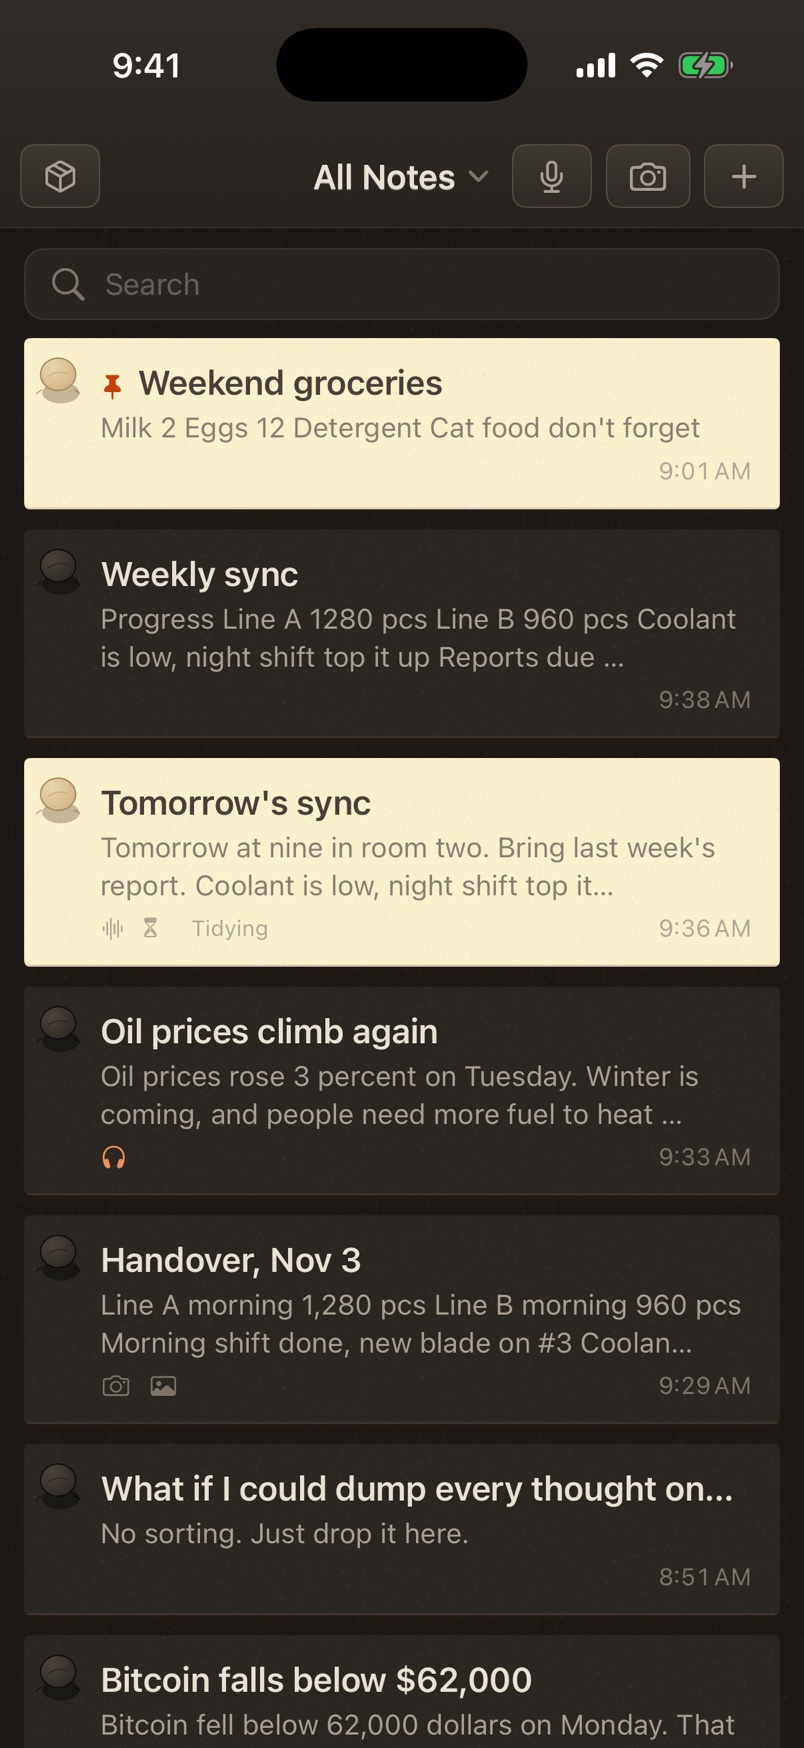
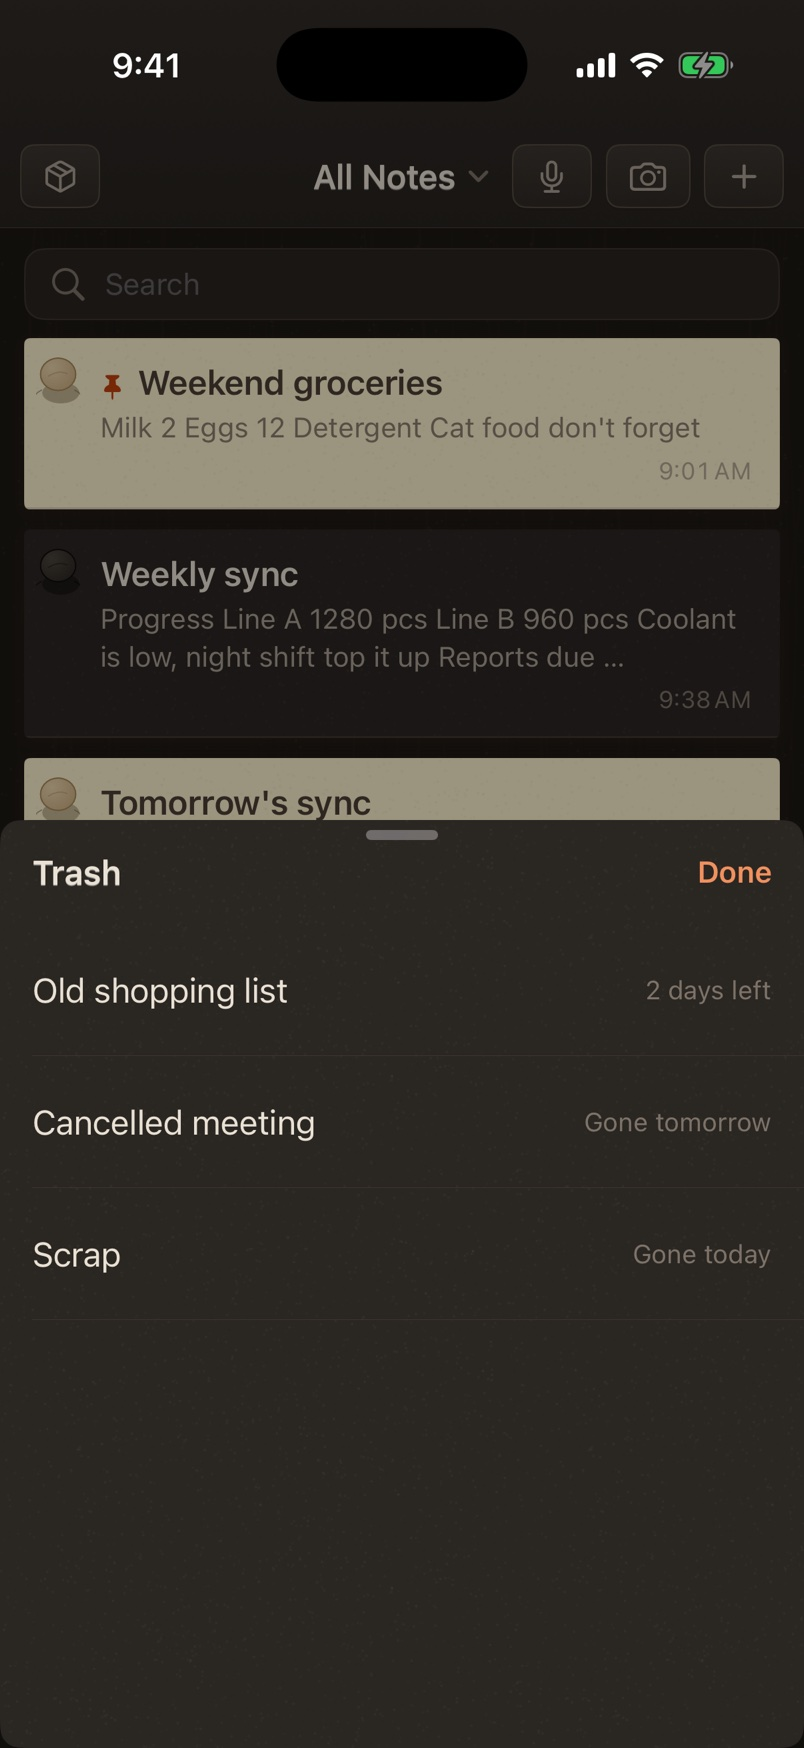
iOS 截图：6306d02 [skip ci]

diff --git a/ios/shots/index.html b/ios/shots/index.html
@@ -26,18 +26,18 @@ figcaption { text-align:center; color:var(--ink2); font-size:14px; margin-top:6p
 <body>
 <header>
 <h1>一叶笺 iPhone · 最新样子</h1>
-<p class="meta">0.7.8 · 提交 d245051 · 11-24 15:54（新加坡时间）</p>
-<p class="changed">这次改了：截图：b8b701e [skip ci]</p>
-<p class="meta">拍照认字认对：印刷 99%，手写 89% · 60 张截图，CI 每次自动换</p>
+<p class="meta">0.7.8 · 提交 6306d02 · 11-24 16:44（新加坡时间）</p>
+<p class="changed">这次改了：111 截图：文件夹面板拉高看废纸篓那行、废纸篓叠在上面</p>
+<p class="meta">拍照认字认对：印刷 99%，手写 89% · 64 张截图，CI 每次自动换</p>
 </header>
 <nav>
 <button data-lang="zh" aria-pressed="true">中文</button><button data-lang="en" aria-pressed="false">English</button>
 <button data-look="light" aria-pressed="true">浅色</button><button data-look="dark" aria-pressed="false">深色</button>
 </nav>
-<section class="set" data-set="zh-light"><figure><img src="zh-light/01-list.jpg?v=d245051" alt="列表" loading="lazy" width="402" height="874"><figcaption>列表</figcaption></figure><figure><img src="zh-light/02-editor.jpg?v=d245051" alt="写字页" loading="lazy" width="402" height="874"><figcaption>写字页</figcaption></figure><figure><img src="zh-light/03-markdown.jpg?v=d245051" alt="Markdown 五招" loading="lazy" width="402" height="874"><figcaption>Markdown 五招</figcaption></figure><figure><img src="zh-light/04-ocr.jpg?v=d245051" alt="拍照认字" loading="lazy" width="402" height="874"><figcaption>拍照认字</figcaption></figure><figure><img src="zh-light/05-share-note.jpg?v=d245051" alt="分享成图 · 便签" loading="lazy" width="402" height="874"><figcaption>分享成图 · 便签</figcaption></figure><figure><img src="zh-light/06-share-white.jpg?v=d245051" alt="分享成图 · 白纸" loading="lazy" width="402" height="874"><figcaption>分享成图 · 白纸</figcaption></figure><figure><img src="zh-light/07-settings.jpg?v=d245051" alt="设置" loading="lazy" width="402" height="874"><figcaption>设置</figcaption></figure><figure><img src="zh-light/08-butler.jpg?v=d245051" alt="大管家" loading="lazy" width="402" height="874"><figcaption>大管家</figcaption></figure><figure><img src="zh-light/09-voice.jpg?v=d245051" alt="录一段" loading="lazy" width="402" height="874"><figcaption>录一段</figcaption></figure><figure><img src="zh-light/10-voice-note.jpg?v=d245051" alt="录音笔记" loading="lazy" width="402" height="874"><figcaption>录音笔记</figcaption></figure><figure><img src="zh-light/11-listen.jpg?v=d245051" alt="听力列表" loading="lazy" width="402" height="874"><figcaption>听力列表</figcaption></figure><figure><img src="zh-light/12-listen-text.jpg?v=d245051" alt="听力 · 原文" loading="lazy" width="402" height="874"><figcaption>听力 · 原文</figcaption></figure><figure><img src="zh-light/13-toolbox.jpg?v=d245051" alt="工具箱（点开）" loading="lazy" width="402" height="874"><figcaption>工具箱（点开）</figcaption></figure><figure><img src="zh-light/14-batch.jpg?v=d245051" alt="batch" loading="lazy" width="402" height="874"><figcaption>batch</figcaption></figure><figure><img src="zh-light/15-trash.jpg?v=d245051" alt="trash" loading="lazy" width="402" height="874"><figcaption>trash</figcaption></figure></section>
-<section class="set" data-set="zh-dark" hidden><figure><img src="zh-dark/01-list.jpg?v=d245051" alt="列表" loading="lazy" width="402" height="874"><figcaption>列表</figcaption></figure><figure><img src="zh-dark/02-editor.jpg?v=d245051" alt="写字页" loading="lazy" width="402" height="874"><figcaption>写字页</figcaption></figure><figure><img src="zh-dark/03-markdown.jpg?v=d245051" alt="Markdown 五招" loading="lazy" width="402" height="874"><figcaption>Markdown 五招</figcaption></figure><figure><img src="zh-dark/04-ocr.jpg?v=d245051" alt="拍照认字" loading="lazy" width="402" height="874"><figcaption>拍照认字</figcaption></figure><figure><img src="zh-dark/05-share-note.jpg?v=d245051" alt="分享成图 · 便签" loading="lazy" width="402" height="874"><figcaption>分享成图 · 便签</figcaption></figure><figure><img src="zh-dark/06-share-white.jpg?v=d245051" alt="分享成图 · 白纸" loading="lazy" width="402" height="874"><figcaption>分享成图 · 白纸</figcaption></figure><figure><img src="zh-dark/07-settings.jpg?v=d245051" alt="设置" loading="lazy" width="402" height="874"><figcaption>设置</figcaption></figure><figure><img src="zh-dark/08-butler.jpg?v=d245051" alt="大管家" loading="lazy" width="402" height="874"><figcaption>大管家</figcaption></figure><figure><img src="zh-dark/09-voice.jpg?v=d245051" alt="录一段" loading="lazy" width="402" height="874"><figcaption>录一段</figcaption></figure><figure><img src="zh-dark/10-voice-note.jpg?v=d245051" alt="录音笔记" loading="lazy" width="402" height="874"><figcaption>录音笔记</figcaption></figure><figure><img src="zh-dark/11-listen.jpg?v=d245051" alt="听力列表" loading="lazy" width="402" height="874"><figcaption>听力列表</figcaption></figure><figure><img src="zh-dark/12-listen-text.jpg?v=d245051" alt="听力 · 原文" loading="lazy" width="402" height="874"><figcaption>听力 · 原文</figcaption></figure><figure><img src="zh-dark/13-toolbox.jpg?v=d245051" alt="工具箱（点开）" loading="lazy" width="402" height="874"><figcaption>工具箱（点开）</figcaption></figure><figure><img src="zh-dark/14-batch.jpg?v=d245051" alt="batch" loading="lazy" width="402" height="874"><figcaption>batch</figcaption></figure><figure><img src="zh-dark/15-trash.jpg?v=d245051" alt="trash" loading="lazy" width="402" height="874"><figcaption>trash</figcaption></figure></section>
-<section class="set" data-set="en-light" hidden><figure><img src="en-light/01-list.jpg?v=d245051" alt="列表" loading="lazy" width="402" height="874"><figcaption>列表</figcaption></figure><figure><img src="en-light/02-editor.jpg?v=d245051" alt="写字页" loading="lazy" width="402" height="874"><figcaption>写字页</figcaption></figure><figure><img src="en-light/03-markdown.jpg?v=d245051" alt="Markdown 五招" loading="lazy" width="402" height="874"><figcaption>Markdown 五招</figcaption></figure><figure><img src="en-light/04-ocr.jpg?v=d245051" alt="拍照认字" loading="lazy" width="402" height="874"><figcaption>拍照认字</figcaption></figure><figure><img src="en-light/05-share-note.jpg?v=d245051" alt="分享成图 · 便签" loading="lazy" width="402" height="874"><figcaption>分享成图 · 便签</figcaption></figure><figure><img src="en-light/06-share-white.jpg?v=d245051" alt="分享成图 · 白纸" loading="lazy" width="402" height="874"><figcaption>分享成图 · 白纸</figcaption></figure><figure><img src="en-light/07-settings.jpg?v=d245051" alt="设置" loading="lazy" width="402" height="874"><figcaption>设置</figcaption></figure><figure><img src="en-light/08-butler.jpg?v=d245051" alt="大管家" loading="lazy" width="402" height="874"><figcaption>大管家</figcaption></figure><figure><img src="en-light/09-voice.jpg?v=d245051" alt="录一段" loading="lazy" width="402" height="874"><figcaption>录一段</figcaption></figure><figure><img src="en-light/10-voice-note.jpg?v=d245051" alt="录音笔记" loading="lazy" width="402" height="874"><figcaption>录音笔记</figcaption></figure><figure><img src="en-light/11-listen.jpg?v=d245051" alt="听力列表" loading="lazy" width="402" height="874"><figcaption>听力列表</figcaption></figure><figure><img src="en-light/12-listen-text.jpg?v=d245051" alt="听力 · 原文" loading="lazy" width="402" height="874"><figcaption>听力 · 原文</figcaption></figure><figure><img src="en-light/13-toolbox.jpg?v=d245051" alt="工具箱（点开）" loading="lazy" width="402" height="874"><figcaption>工具箱（点开）</figcaption></figure><figure><img src="en-light/14-batch.jpg?v=d245051" alt="batch" loading="lazy" width="402" height="874"><figcaption>batch</figcaption></figure><figure><img src="en-light/15-trash.jpg?v=d245051" alt="trash" loading="lazy" width="402" height="874"><figcaption>trash</figcaption></figure></section>
-<section class="set" data-set="en-dark" hidden><figure><img src="en-dark/01-list.jpg?v=d245051" alt="列表" loading="lazy" width="402" height="874"><figcaption>列表</figcaption></figure><figure><img src="en-dark/02-editor.jpg?v=d245051" alt="写字页" loading="lazy" width="402" height="874"><figcaption>写字页</figcaption></figure><figure><img src="en-dark/03-markdown.jpg?v=d245051" alt="Markdown 五招" loading="lazy" width="402" height="874"><figcaption>Markdown 五招</figcaption></figure><figure><img src="en-dark/04-ocr.jpg?v=d245051" alt="拍照认字" loading="lazy" width="402" height="874"><figcaption>拍照认字</figcaption></figure><figure><img src="en-dark/05-share-note.jpg?v=d245051" alt="分享成图 · 便签" loading="lazy" width="402" height="874"><figcaption>分享成图 · 便签</figcaption></figure><figure><img src="en-dark/06-share-white.jpg?v=d245051" alt="分享成图 · 白纸" loading="lazy" width="402" height="874"><figcaption>分享成图 · 白纸</figcaption></figure><figure><img src="en-dark/07-settings.jpg?v=d245051" alt="设置" loading="lazy" width="402" height="874"><figcaption>设置</figcaption></figure><figure><img src="en-dark/08-butler.jpg?v=d245051" alt="大管家" loading="lazy" width="402" height="874"><figcaption>大管家</figcaption></figure><figure><img src="en-dark/09-voice.jpg?v=d245051" alt="录一段" loading="lazy" width="402" height="874"><figcaption>录一段</figcaption></figure><figure><img src="en-dark/10-voice-note.jpg?v=d245051" alt="录音笔记" loading="lazy" width="402" height="874"><figcaption>录音笔记</figcaption></figure><figure><img src="en-dark/11-listen.jpg?v=d245051" alt="听力列表" loading="lazy" width="402" height="874"><figcaption>听力列表</figcaption></figure><figure><img src="en-dark/12-listen-text.jpg?v=d245051" alt="听力 · 原文" loading="lazy" width="402" height="874"><figcaption>听力 · 原文</figcaption></figure><figure><img src="en-dark/13-toolbox.jpg?v=d245051" alt="工具箱（点开）" loading="lazy" width="402" height="874"><figcaption>工具箱（点开）</figcaption></figure><figure><img src="en-dark/14-batch.jpg?v=d245051" alt="batch" loading="lazy" width="402" height="874"><figcaption>batch</figcaption></figure><figure><img src="en-dark/15-trash.jpg?v=d245051" alt="trash" loading="lazy" width="402" height="874"><figcaption>trash</figcaption></figure></section>
+<section class="set" data-set="zh-light"><figure><img src="zh-light/01-list.jpg?v=6306d02" alt="列表" loading="lazy" width="402" height="874"><figcaption>列表</figcaption></figure><figure><img src="zh-light/02-editor.jpg?v=6306d02" alt="写字页" loading="lazy" width="402" height="874"><figcaption>写字页</figcaption></figure><figure><img src="zh-light/03-markdown.jpg?v=6306d02" alt="Markdown 五招" loading="lazy" width="402" height="874"><figcaption>Markdown 五招</figcaption></figure><figure><img src="zh-light/04-ocr.jpg?v=6306d02" alt="拍照认字" loading="lazy" width="402" height="874"><figcaption>拍照认字</figcaption></figure><figure><img src="zh-light/05-share-note.jpg?v=6306d02" alt="分享成图 · 便签" loading="lazy" width="402" height="874"><figcaption>分享成图 · 便签</figcaption></figure><figure><img src="zh-light/06-share-white.jpg?v=6306d02" alt="分享成图 · 白纸" loading="lazy" width="402" height="874"><figcaption>分享成图 · 白纸</figcaption></figure><figure><img src="zh-light/07-settings.jpg?v=6306d02" alt="设置" loading="lazy" width="402" height="874"><figcaption>设置</figcaption></figure><figure><img src="zh-light/08-butler.jpg?v=6306d02" alt="大管家" loading="lazy" width="402" height="874"><figcaption>大管家</figcaption></figure><figure><img src="zh-light/09-voice.jpg?v=6306d02" alt="录一段" loading="lazy" width="402" height="874"><figcaption>录一段</figcaption></figure><figure><img src="zh-light/10-voice-note.jpg?v=6306d02" alt="录音笔记" loading="lazy" width="402" height="874"><figcaption>录音笔记</figcaption></figure><figure><img src="zh-light/11-listen.jpg?v=6306d02" alt="听力列表" loading="lazy" width="402" height="874"><figcaption>听力列表</figcaption></figure><figure><img src="zh-light/12-listen-text.jpg?v=6306d02" alt="听力 · 原文" loading="lazy" width="402" height="874"><figcaption>听力 · 原文</figcaption></figure><figure><img src="zh-light/13-toolbox.jpg?v=6306d02" alt="工具箱（点开）" loading="lazy" width="402" height="874"><figcaption>工具箱（点开）</figcaption></figure><figure><img src="zh-light/14-batch.jpg?v=6306d02" alt="batch" loading="lazy" width="402" height="874"><figcaption>batch</figcaption></figure><figure><img src="zh-light/15-trash.jpg?v=6306d02" alt="trash" loading="lazy" width="402" height="874"><figcaption>trash</figcaption></figure><figure><img src="zh-light/16-folders-tall.jpg?v=6306d02" alt="folders-tall" loading="lazy" width="402" height="874"><figcaption>folders-tall</figcaption></figure></section>
+<section class="set" data-set="zh-dark" hidden><figure><img src="zh-dark/01-list.jpg?v=6306d02" alt="列表" loading="lazy" width="402" height="874"><figcaption>列表</figcaption></figure><figure><img src="zh-dark/02-editor.jpg?v=6306d02" alt="写字页" loading="lazy" width="402" height="874"><figcaption>写字页</figcaption></figure><figure><img src="zh-dark/03-markdown.jpg?v=6306d02" alt="Markdown 五招" loading="lazy" width="402" height="874"><figcaption>Markdown 五招</figcaption></figure><figure><img src="zh-dark/04-ocr.jpg?v=6306d02" alt="拍照认字" loading="lazy" width="402" height="874"><figcaption>拍照认字</figcaption></figure><figure><img src="zh-dark/05-share-note.jpg?v=6306d02" alt="分享成图 · 便签" loading="lazy" width="402" height="874"><figcaption>分享成图 · 便签</figcaption></figure><figure><img src="zh-dark/06-share-white.jpg?v=6306d02" alt="分享成图 · 白纸" loading="lazy" width="402" height="874"><figcaption>分享成图 · 白纸</figcaption></figure><figure><img src="zh-dark/07-settings.jpg?v=6306d02" alt="设置" loading="lazy" width="402" height="874"><figcaption>设置</figcaption></figure><figure><img src="zh-dark/08-butler.jpg?v=6306d02" alt="大管家" loading="lazy" width="402" height="874"><figcaption>大管家</figcaption></figure><figure><img src="zh-dark/09-voice.jpg?v=6306d02" alt="录一段" loading="lazy" width="402" height="874"><figcaption>录一段</figcaption></figure><figure><img src="zh-dark/10-voice-note.jpg?v=6306d02" alt="录音笔记" loading="lazy" width="402" height="874"><figcaption>录音笔记</figcaption></figure><figure><img src="zh-dark/11-listen.jpg?v=6306d02" alt="听力列表" loading="lazy" width="402" height="874"><figcaption>听力列表</figcaption></figure><figure><img src="zh-dark/12-listen-text.jpg?v=6306d02" alt="听力 · 原文" loading="lazy" width="402" height="874"><figcaption>听力 · 原文</figcaption></figure><figure><img src="zh-dark/13-toolbox.jpg?v=6306d02" alt="工具箱（点开）" loading="lazy" width="402" height="874"><figcaption>工具箱（点开）</figcaption></figure><figure><img src="zh-dark/14-batch.jpg?v=6306d02" alt="batch" loading="lazy" width="402" height="874"><figcaption>batch</figcaption></figure><figure><img src="zh-dark/15-trash.jpg?v=6306d02" alt="trash" loading="lazy" width="402" height="874"><figcaption>trash</figcaption></figure><figure><img src="zh-dark/16-folders-tall.jpg?v=6306d02" alt="folders-tall" loading="lazy" width="402" height="874"><figcaption>folders-tall</figcaption></figure></section>
+<section class="set" data-set="en-light" hidden><figure><img src="en-light/01-list.jpg?v=6306d02" alt="列表" loading="lazy" width="402" height="874"><figcaption>列表</figcaption></figure><figure><img src="en-light/02-editor.jpg?v=6306d02" alt="写字页" loading="lazy" width="402" height="874"><figcaption>写字页</figcaption></figure><figure><img src="en-light/03-markdown.jpg?v=6306d02" alt="Markdown 五招" loading="lazy" width="402" height="874"><figcaption>Markdown 五招</figcaption></figure><figure><img src="en-light/04-ocr.jpg?v=6306d02" alt="拍照认字" loading="lazy" width="402" height="874"><figcaption>拍照认字</figcaption></figure><figure><img src="en-light/05-share-note.jpg?v=6306d02" alt="分享成图 · 便签" loading="lazy" width="402" height="874"><figcaption>分享成图 · 便签</figcaption></figure><figure><img src="en-light/06-share-white.jpg?v=6306d02" alt="分享成图 · 白纸" loading="lazy" width="402" height="874"><figcaption>分享成图 · 白纸</figcaption></figure><figure><img src="en-light/07-settings.jpg?v=6306d02" alt="设置" loading="lazy" width="402" height="874"><figcaption>设置</figcaption></figure><figure><img src="en-light/08-butler.jpg?v=6306d02" alt="大管家" loading="lazy" width="402" height="874"><figcaption>大管家</figcaption></figure><figure><img src="en-light/09-voice.jpg?v=6306d02" alt="录一段" loading="lazy" width="402" height="874"><figcaption>录一段</figcaption></figure><figure><img src="en-light/10-voice-note.jpg?v=6306d02" alt="录音笔记" loading="lazy" width="402" height="874"><figcaption>录音笔记</figcaption></figure><figure><img src="en-light/11-listen.jpg?v=6306d02" alt="听力列表" loading="lazy" width="402" height="874"><figcaption>听力列表</figcaption></figure><figure><img src="en-light/12-listen-text.jpg?v=6306d02" alt="听力 · 原文" loading="lazy" width="402" height="874"><figcaption>听力 · 原文</figcaption></figure><figure><img src="en-light/13-toolbox.jpg?v=6306d02" alt="工具箱（点开）" loading="lazy" width="402" height="874"><figcaption>工具箱（点开）</figcaption></figure><figure><img src="en-light/14-batch.jpg?v=6306d02" alt="batch" loading="lazy" width="402" height="874"><figcaption>batch</figcaption></figure><figure><img src="en-light/15-trash.jpg?v=6306d02" alt="trash" loading="lazy" width="402" height="874"><figcaption>trash</figcaption></figure><figure><img src="en-light/16-folders-tall.jpg?v=6306d02" alt="folders-tall" loading="lazy" width="402" height="874"><figcaption>folders-tall</figcaption></figure></section>
+<section class="set" data-set="en-dark" hidden><figure><img src="en-dark/01-list.jpg?v=6306d02" alt="列表" loading="lazy" width="402" height="874"><figcaption>列表</figcaption></figure><figure><img src="en-dark/02-editor.jpg?v=6306d02" alt="写字页" loading="lazy" width="402" height="874"><figcaption>写字页</figcaption></figure><figure><img src="en-dark/03-markdown.jpg?v=6306d02" alt="Markdown 五招" loading="lazy" width="402" height="874"><figcaption>Markdown 五招</figcaption></figure><figure><img src="en-dark/04-ocr.jpg?v=6306d02" alt="拍照认字" loading="lazy" width="402" height="874"><figcaption>拍照认字</figcaption></figure><figure><img src="en-dark/05-share-note.jpg?v=6306d02" alt="分享成图 · 便签" loading="lazy" width="402" height="874"><figcaption>分享成图 · 便签</figcaption></figure><figure><img src="en-dark/06-share-white.jpg?v=6306d02" alt="分享成图 · 白纸" loading="lazy" width="402" height="874"><figcaption>分享成图 · 白纸</figcaption></figure><figure><img src="en-dark/07-settings.jpg?v=6306d02" alt="设置" loading="lazy" width="402" height="874"><figcaption>设置</figcaption></figure><figure><img src="en-dark/08-butler.jpg?v=6306d02" alt="大管家" loading="lazy" width="402" height="874"><figcaption>大管家</figcaption></figure><figure><img src="en-dark/09-voice.jpg?v=6306d02" alt="录一段" loading="lazy" width="402" height="874"><figcaption>录一段</figcaption></figure><figure><img src="en-dark/10-voice-note.jpg?v=6306d02" alt="录音笔记" loading="lazy" width="402" height="874"><figcaption>录音笔记</figcaption></figure><figure><img src="en-dark/11-listen.jpg?v=6306d02" alt="听力列表" loading="lazy" width="402" height="874"><figcaption>听力列表</figcaption></figure><figure><img src="en-dark/12-listen-text.jpg?v=6306d02" alt="听力 · 原文" loading="lazy" width="402" height="874"><figcaption>听力 · 原文</figcaption></figure><figure><img src="en-dark/13-toolbox.jpg?v=6306d02" alt="工具箱（点开）" loading="lazy" width="402" height="874"><figcaption>工具箱（点开）</figcaption></figure><figure><img src="en-dark/14-batch.jpg?v=6306d02" alt="batch" loading="lazy" width="402" height="874"><figcaption>batch</figcaption></figure><figure><img src="en-dark/15-trash.jpg?v=6306d02" alt="trash" loading="lazy" width="402" height="874"><figcaption>trash</figcaption></figure><figure><img src="en-dark/16-folders-tall.jpg?v=6306d02" alt="folders-tall" loading="lazy" width="402" height="874"><figcaption>folders-tall</figcaption></figure></section>
 <script>
 let lang = "zh", look = "light";
 function show() {

diff --git a/ios/shots/ocr/report.md b/ios/shots/ocr/report.md
@@ -4,16 +4,16 @@
 
 | 图 | 类型 | 本机认对 | 标黄段 | 标黄里真错 | 错字被标黄 | 用时 |
 |---|---|---|---|---|---|---|
-| h1 | 手写 | 91% | 2 | 2/2（100%） | 2/3 | 2.0s |
-| h2 | 手写 | 100% | 1 | 0/1（0%） | — | 1.1s |
-| h3 | 手写 | 83% | 2 | 2/2（100%） | 3/4 | 1.1s |
-| h4 | 手写 | 60% | 4 | 4/4（100%） | 8/8 | 1.0s |
+| h1 | 手写 | 91% | 2 | 2/2（100%） | 2/3 | 3.9s |
+| h2 | 手写 | 100% | 1 | 0/1（0%） | — | 1.3s |
+| h3 | 手写 | 83% | 2 | 2/2（100%） | 3/4 | 1.2s |
+| h4 | 手写 | 60% | 4 | 4/4（100%） | 8/8 | 1.3s |
 | h5 | 手写 | 100% | 0 | — | — | 1.0s |
-| p1 | 印刷 | 100% | 0 | — | — | 0.9s |
+| p1 | 印刷 | 100% | 0 | — | — | 1.2s |
 | p2 | 印刷 | 100% | 1 | 0/1（0%） | — | 1.0s |
-| p3 | 印刷 | 100% | 0 | — | — | 1.1s |
-| p4 | 印刷 | 99% | 0 | — | 0/1 | 0.8s |
-| p5 | 印刷 | 94% | 1 | 1/1（100%） | 2/2 | 0.9s |
+| p3 | 印刷 | 100% | 0 | — | — | 1.0s |
+| p4 | 印刷 | 99% | 0 | — | 0/1 | 0.9s |
+| p5 | 印刷 | 94% | 1 | 1/1（100%） | 2/2 | 2.1s |
 | **印刷合计** | | **99%** | 2 | 1/2（50%） | 2/3 | |
 | **手写合计** | | **89%** | 9 | 8/9（89%） | 13/15 | |
 

diff --git a/ios/shots/README.md b/ios/shots/README.md
@@ -1,5 +1,5 @@
 # 截图和样张（CI 自动生成，每次覆盖）
 
-- 提交：d245051
+- 提交：6306d02
 - Xcode 26.6，模拟器：iPhone 17 Pro（iOS-26-5）
 - 目录：zh-light、zh-dark、en-light、en-dark 各 12 张；ocr/ 是 10 张认字样张的结果
